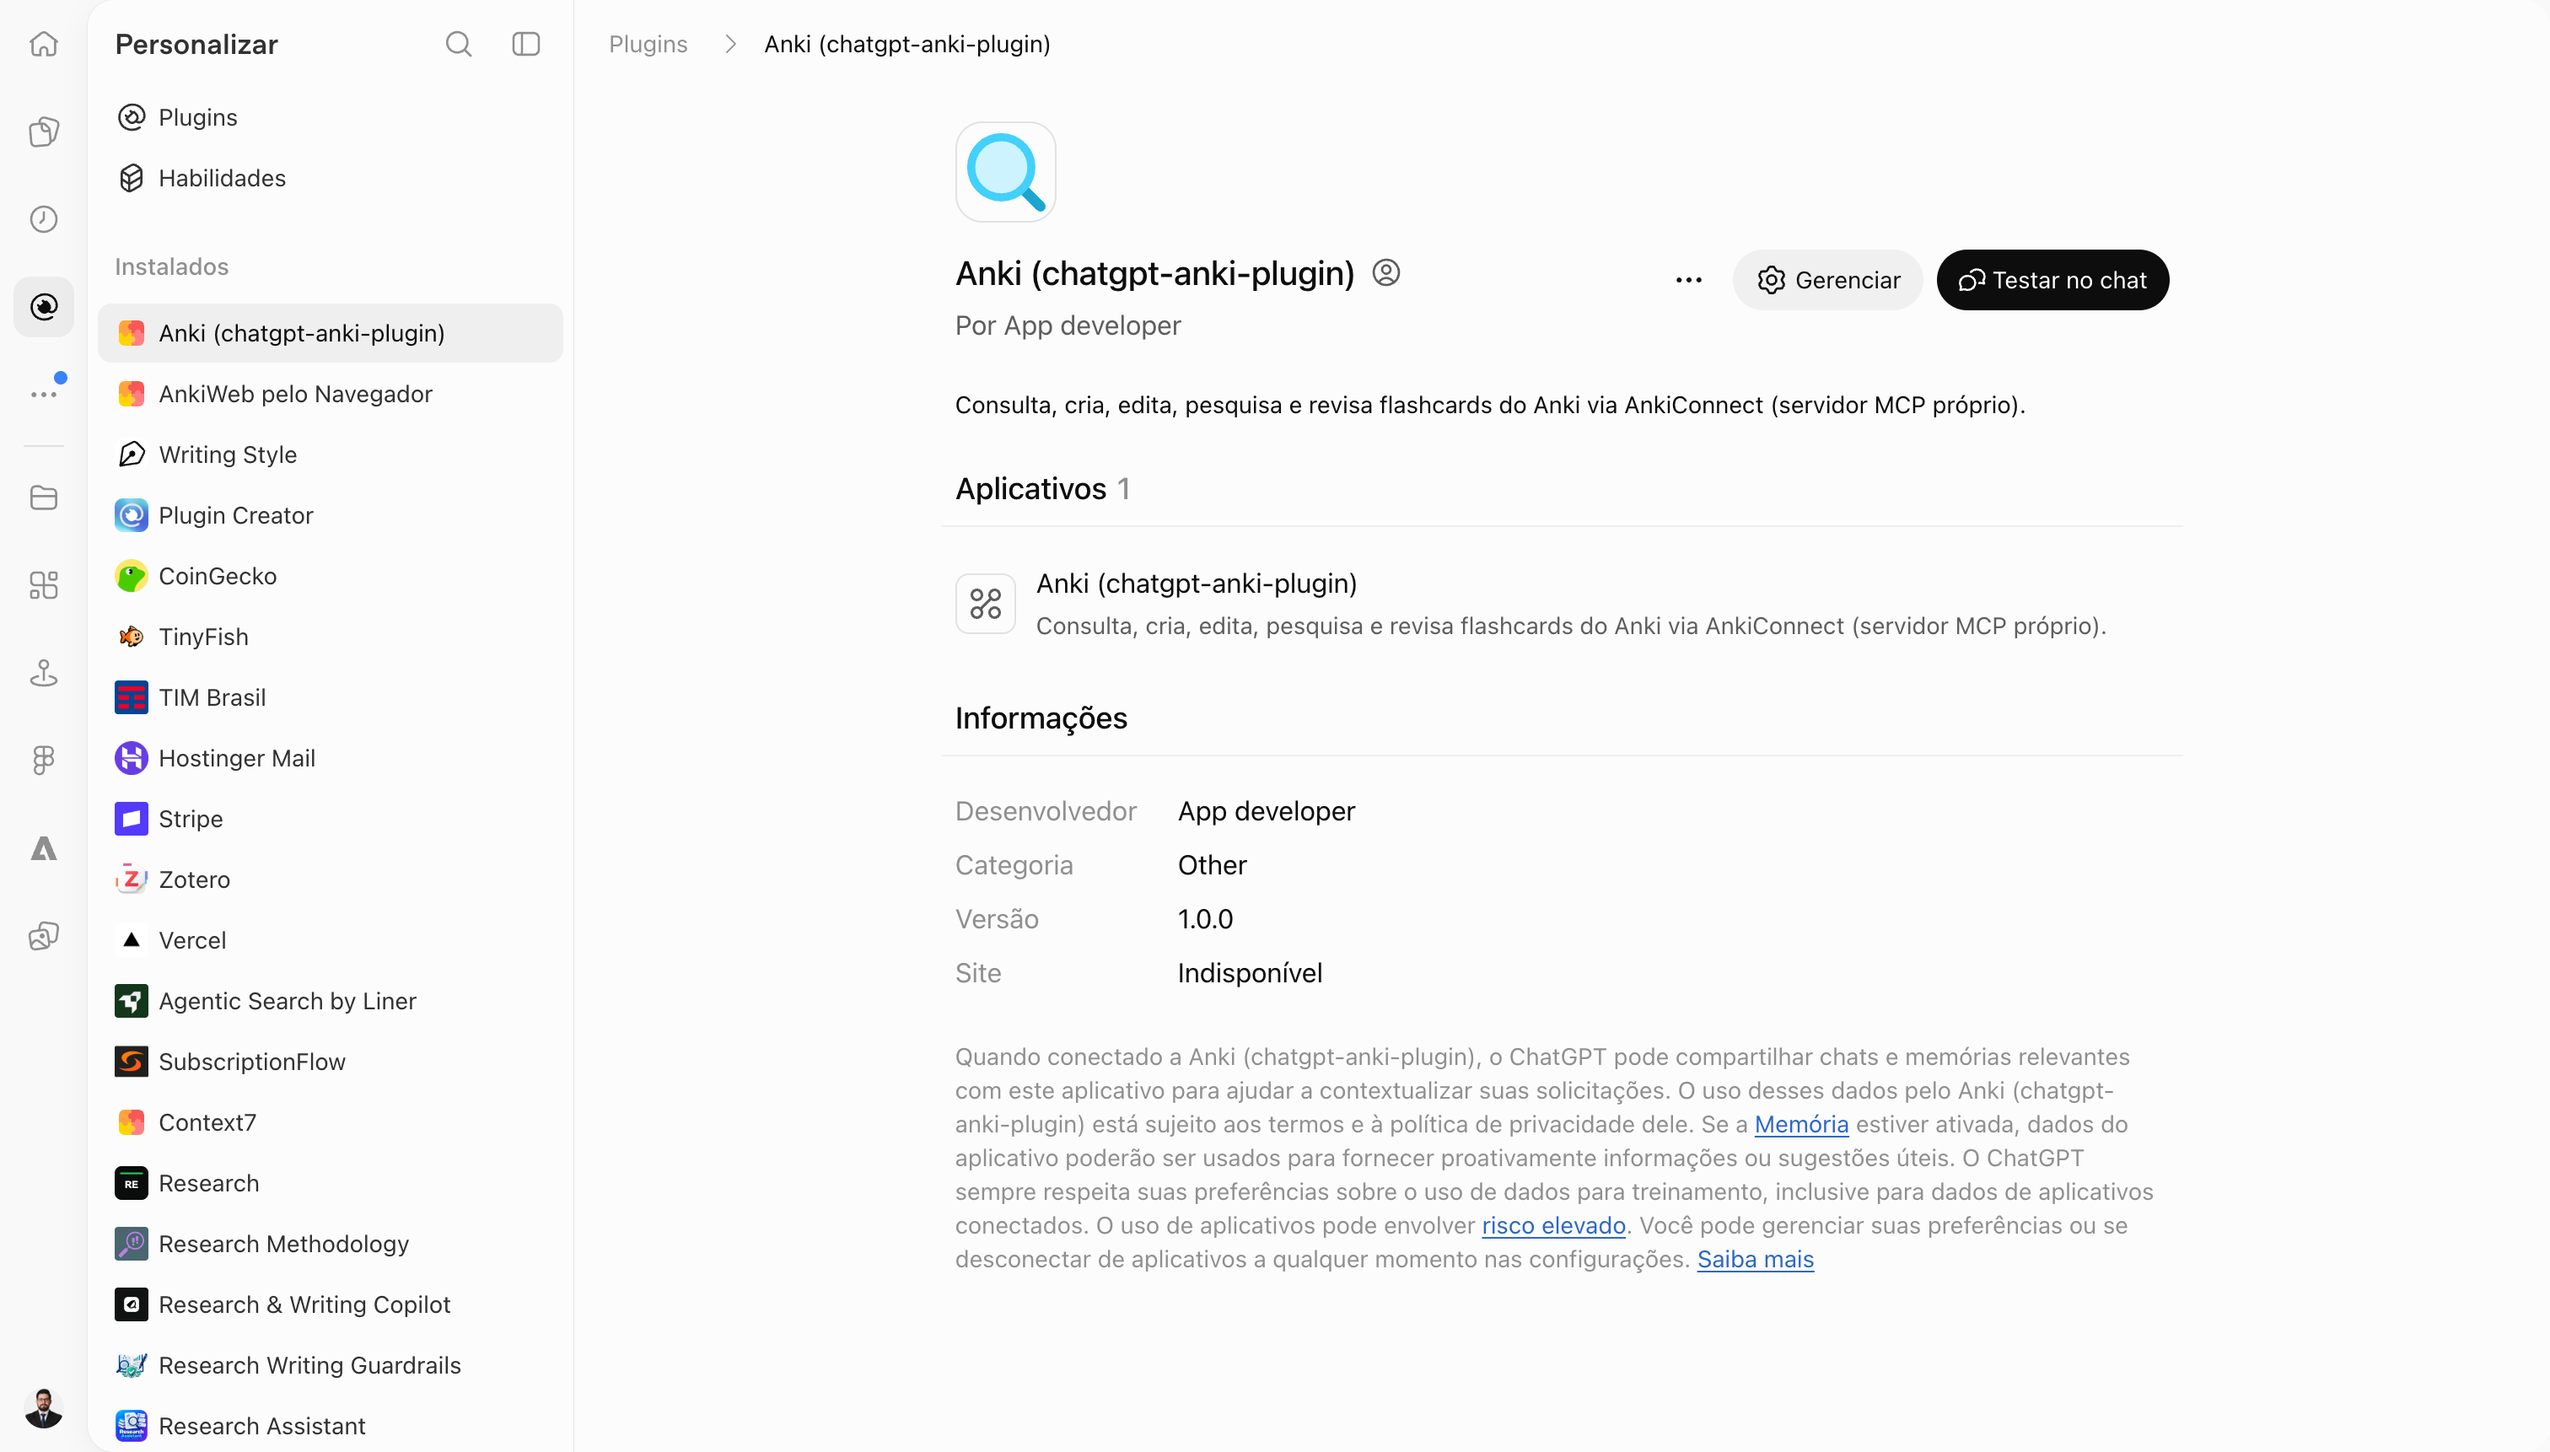
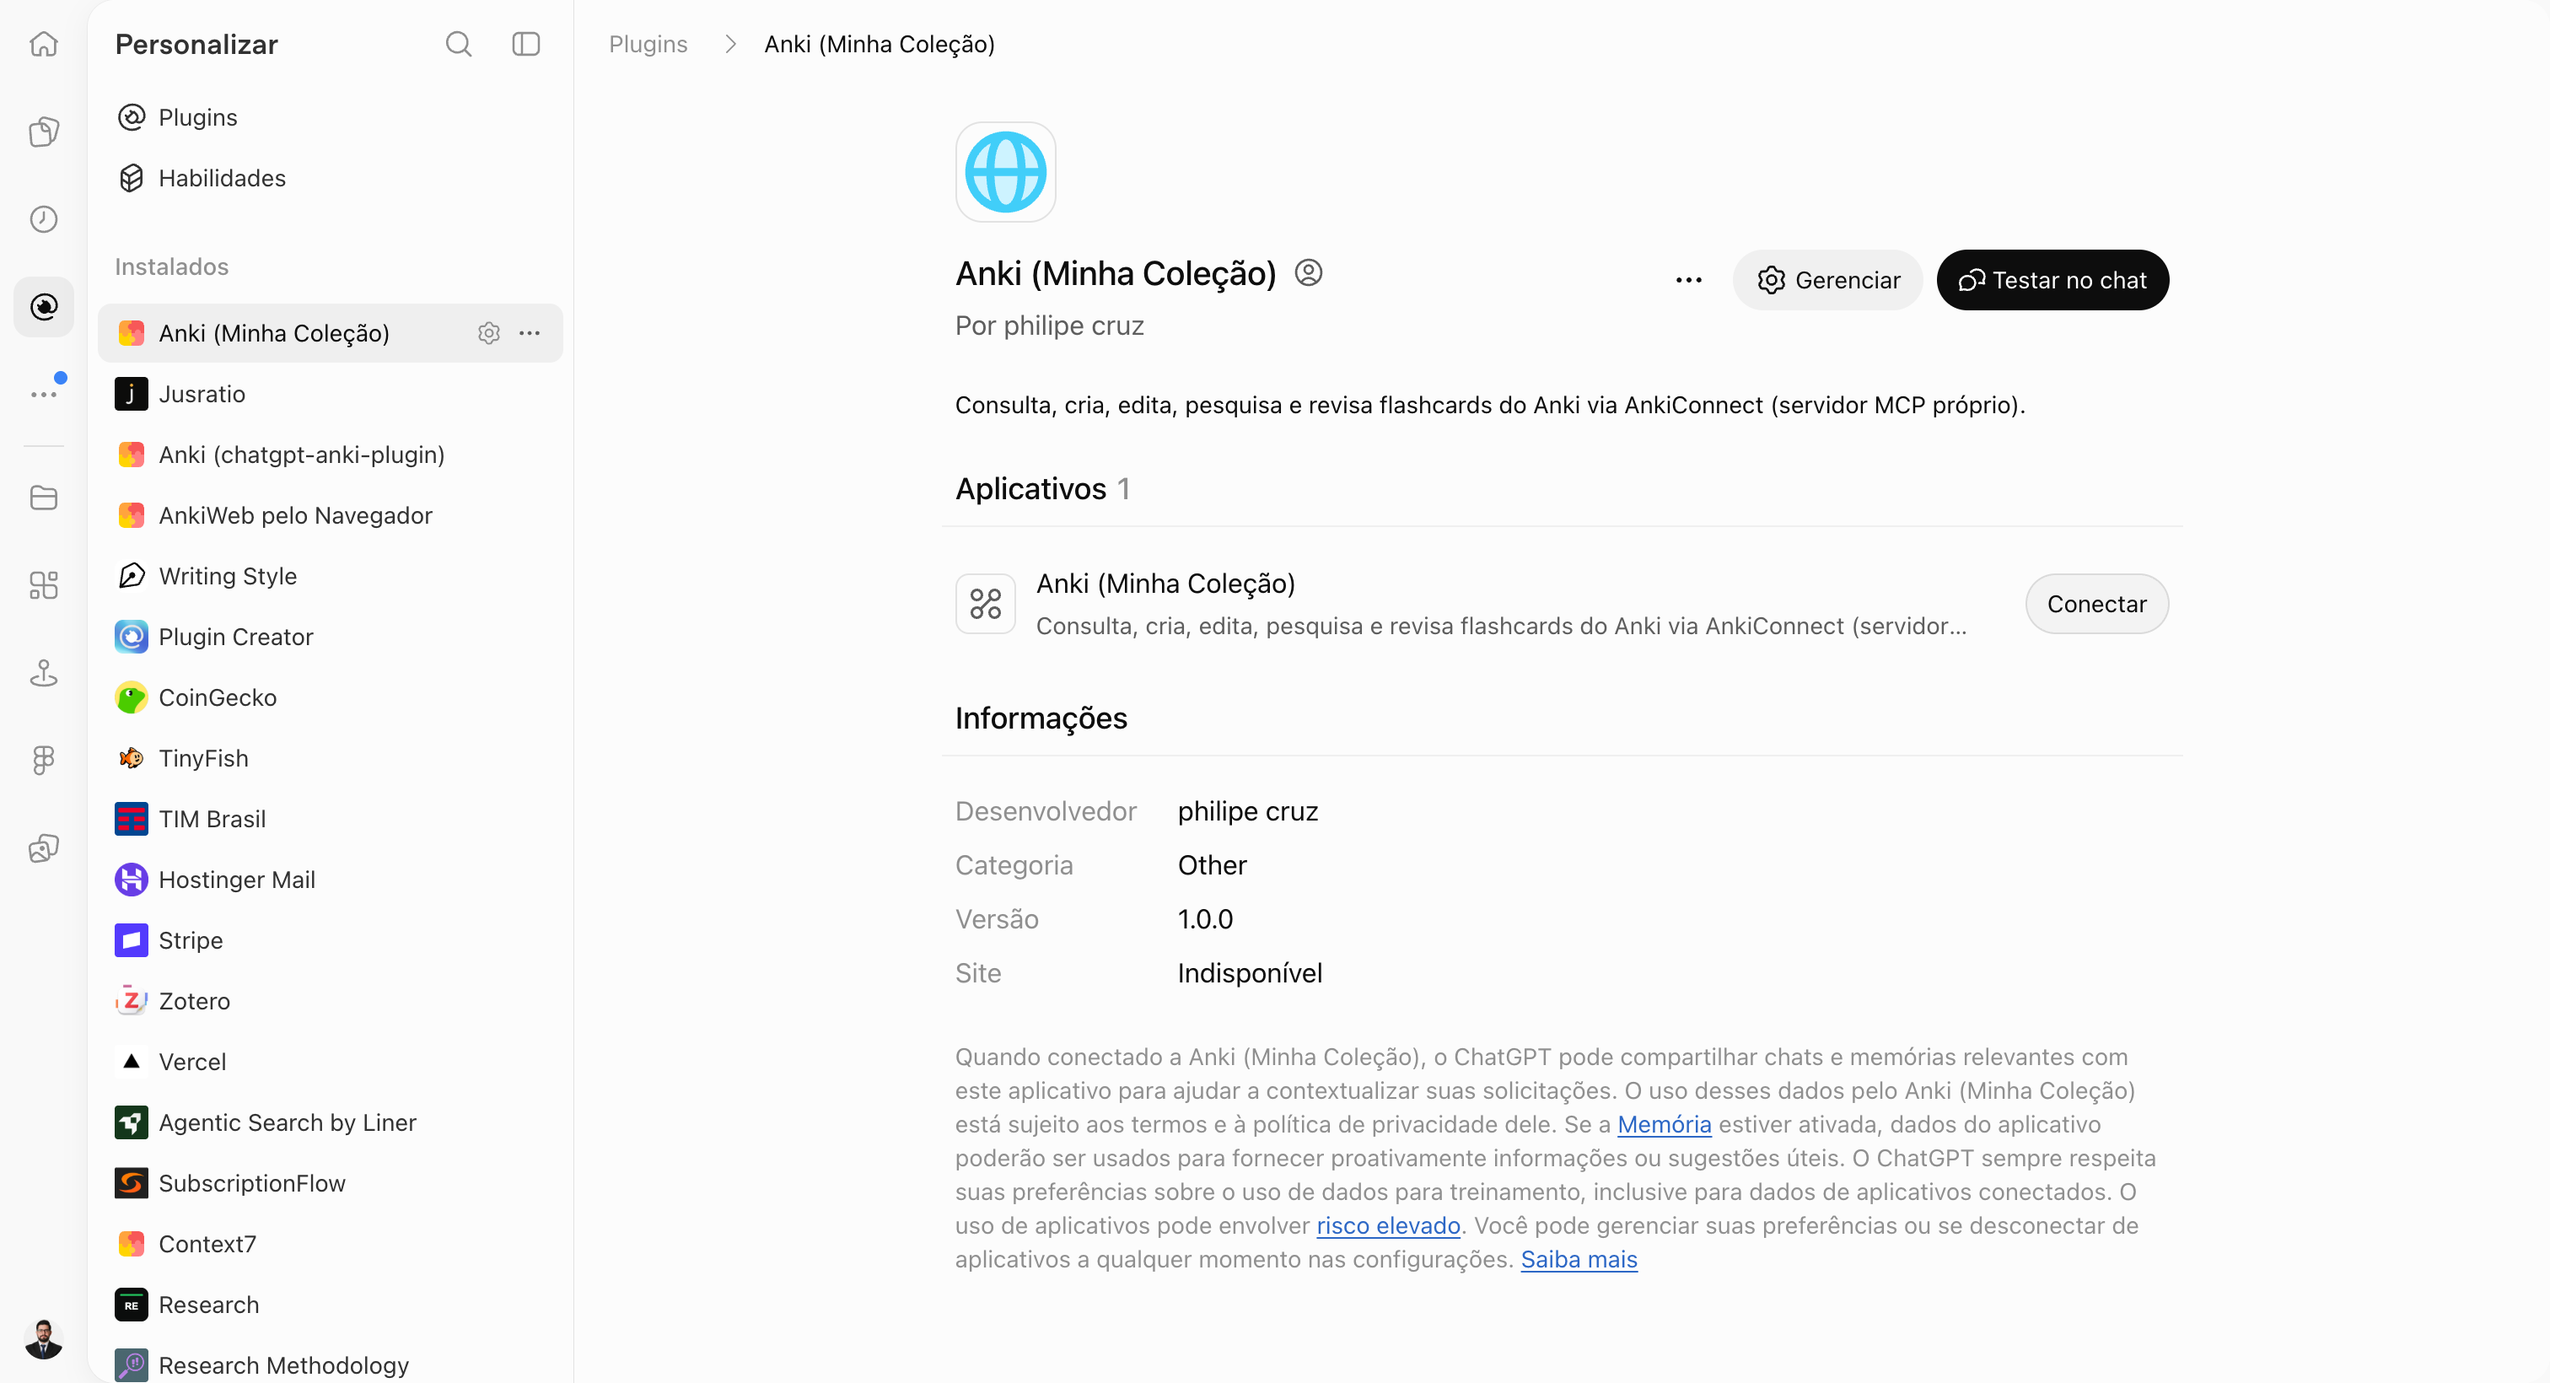
feat(ankiweb): ativa microsservico real (chatgpt-anki-real) + robo preenche OWNER_PASSWORD e modo read-only
- fly.ankiweb.toml: ANKI_PROFILE='Usuário 1'
- assist robot: approveConsent() com OWNER_PASSWORD, connect parametrizado por CONNECTOR_NAME,
  PROMPTS_READONLY + TRANSCRIPT_FILE, espera ociosidade do composer
- README/docs10: R-02 ATIVO; evidencia C10b com coleção real (77 baralhos, sync OK)

diff --git a/docs/evidencias/C10b-colecao-real.md b/docs/evidencias/C10b-colecao-real.md
@@ -1,0 +1,32 @@
+# Evidência — ativação do microsserviço AnkiWeb com a coleção real
+
+- **Data:** 2026-10-11
+- **Endpoint:** `https://chatgpt-anki-real.fly.dev` (MCP: `/mcp`)
+- **Máquina:** Fly.io `gru`, shared-cpu-1x 1GB, volume `anki_data` → `/data`
+- **Perfil:** `Usuário 1` (syncKey intacto, `defaultLang=pt_BR` preservado)
+
+## O que foi validado ao vivo
+
+| Verificação | Evidência |
+|:--|:--|
+| Boot + Anki headless | `/ready` → `{"status":"ready","anki":"ok","anki_connect_version":6}` |
+| **Sync com o AnkiWeb** | log `[sync 12:15:22Z] {"result": null, "error": null}` |
+| Coleção real na nuvem | `list_decks` → **77 baralhos** (Catarata, OCT, Oculoplastica, Superfície Ocular…) |
+| Cartões reais | `get_due_cards` → **7.430 vencidos**; `get_stats` → 1250 novos / 1992 aprender / 6167 revisão |
+| Busca | `search_cards deck:"Superfície Ocular::Olho Seco"` → **145 cartões** |
+| `get_deck` (nome acentuado) | stats `{new:11, learn:49, review:36, total:145}` (fix: `getDeckStats` chaveado por id) |
+| CSS de template no texto | removido (`stripHtml` agora descarta `<style>/<script>` — issue #3 fechada) |
+| OAuth real (OWNER_PASSWORD) | `obtainToken` + `list_decks` ✓ |
+| Conector no ChatGPT | log: `/oauth/register 201` → `/oauth/authorize` → `/oauth/approve 302` → `/oauth/token 200`; conector **`Anki (Minha Coleção)`** aparece em *Instalados* |
+
+## Observações
+
+- O conector **demo** (`Anki (chatgpt-anki-plugin)`, app suspenso) ainda está
+  instalado no ChatGPT e, por isso, os prompts de teste abertos pelo robô na
+  sessão foram roteados para ele (a conexão expira); nesses casos o ChatGPT
+  pede "Reconectar". Após **excluir o plugin demo** e selecionar o conector
+  real, o uso é direto na mesma conversa.
+- Prompts de escrita (create/update/delete) foram **deliberadamente pulados**
+  (`PROMPTS_READONLY=1`) para não alterar a coleção médica real.
+- Mídia não é transferida (upload só de dados): áudios/imagens continuam no Mac;
+  os textos vêm com `stripHtml` sem CSS.

diff --git a/docs/10-backlog-e-cronograma.md b/docs/10-backlog-e-cronograma.md
@@ -99,7 +99,7 @@ externa) · 🔜 roadmap (pós-v0.1).
 | ID | Tarefa | Depende | Agente | Est. | Entregável |
 |:---|:---|:---|:---|:---|:---|
 | R-01 | **Multi-tenant** (T-048 do ADR-0008): AnkiConnect URL/chave por usuário, cifrado (AES-GCM), consentimento | T-024 | Arquiteto+Segurança | 40h | habilita listagem pública plena |
-| R-02 | Backend headless do AnkiGateway (container Anki + API) | T-018 | Dev Backend | 24h | **Entregue como microsserviço**: `docker/ankiweb-service` + `fly.ankiweb.toml` + ADR-0009 (Anki headless syncado ao AnkiWeb + MCP na mesma máquina); ativação real pendente de custo/perfil |
+| R-02 | Backend headless do AnkiGateway (container Anki + API) | T-018 | Dev Backend | 24h | **Entregue e ATIVO** (2026-10-11): `docker/ankiweb-service` + `fly.ankiweb.toml` + ADR-0009; rodando em `chatgpt-anki-real` com a conta AnkiWeb real (77 baralhos, sync 15 min) e conector `Anki (Minha Coleção)` no ChatGPT |
 | R-03 | Rate limit distribuído (Redis) p/ múltiplas instâncias | T-027 | DevOps | 8h | escala horizontal |
 | R-04 | Import/export `.apkg` (FR-15) | T-031 | Dev Backend | 16h | novos fluxos |
 | R-05 | Refresh tokens OAuth | T-024 | Segurança | 8h | UX de longa duração |

diff --git a/README.md b/README.md
@@ -87,11 +87,15 @@ bash scripts/smoke.sh
    Para expor localmente em HTTPS: `ngrok http 8080` ou Cloudflare Tunnel.
 4. Produção (Fly.io): siga o [runbook](docs/08-runbook-operacional.md).
 
-### Sem depender do seu computador (backend AnkiWeb)
+### Sem depender do seu computador (backend AnkiWeb) — ✅ ATIVO
 
 O microsserviço [`docker/ankiweb-service`](docker/ankiweb-service/README.md)
 roda um **Anki headless syncado à sua conta AnkiWeb** na nuvem + o servidor MCP
-na mesma máquina (o AnkiConnect nunca é exposto). Seu Mac pode ficar desligado:
+na mesma máquina (o AnkiConnect nunca é exposto). Seu Mac pode ficar desligado.
+
+**Status (2026-10-11):** ativo em `https://chatgpt-anki-real.fly.dev` com a conta
+AnkiWeb real — 77 baralhos, 7.430 cartões vencidos, sync a cada 15 min; conector
+`Anki (Minha Coleção)` autorizado no ChatGPT. Para reproduzir do zero:
 
 ```bash
 fly apps create chatgpt-anki-real
